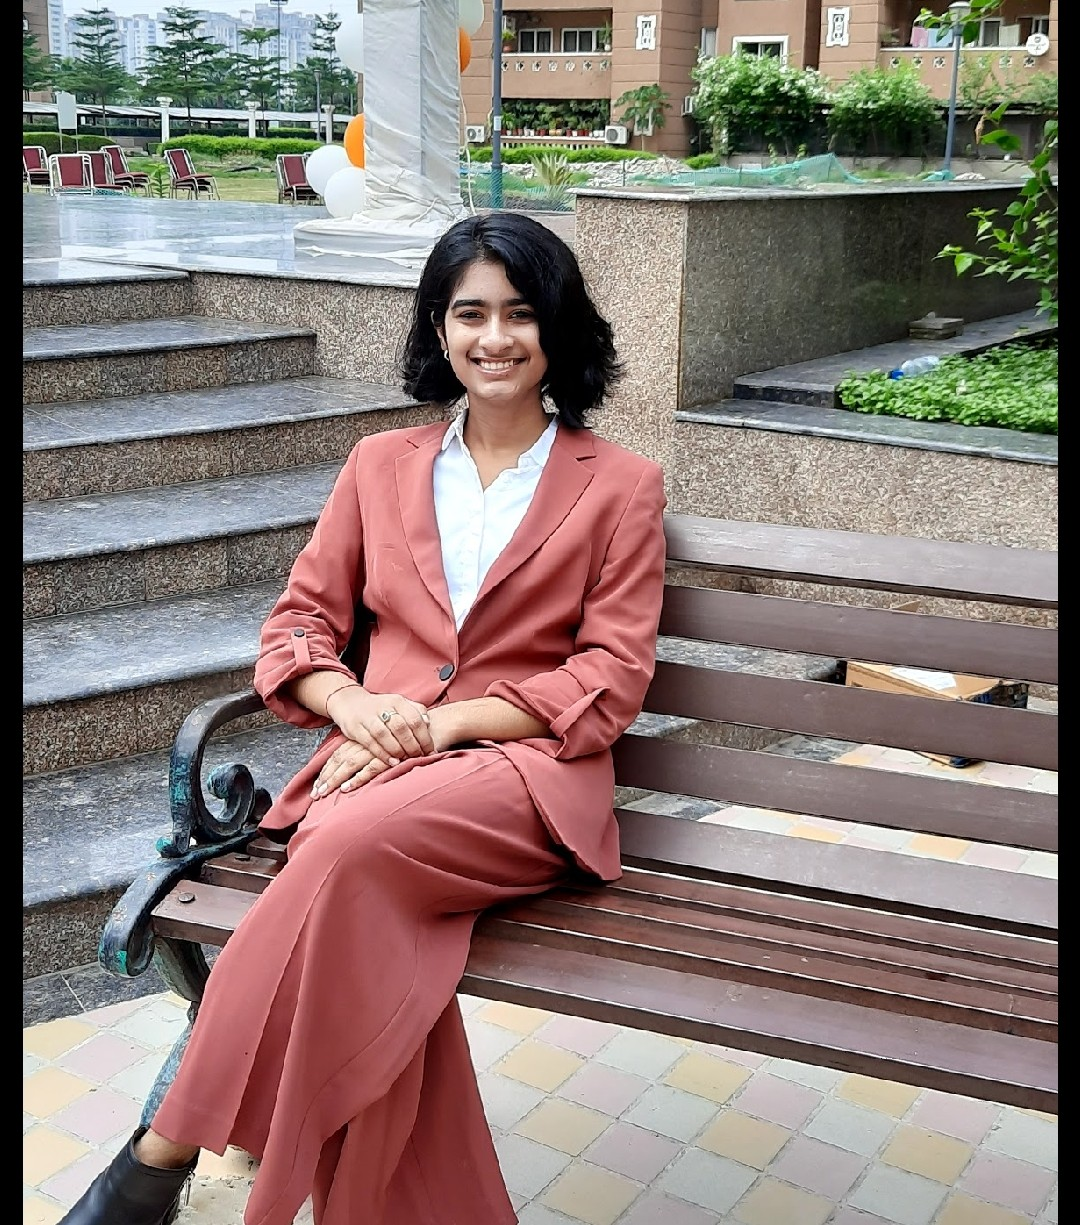
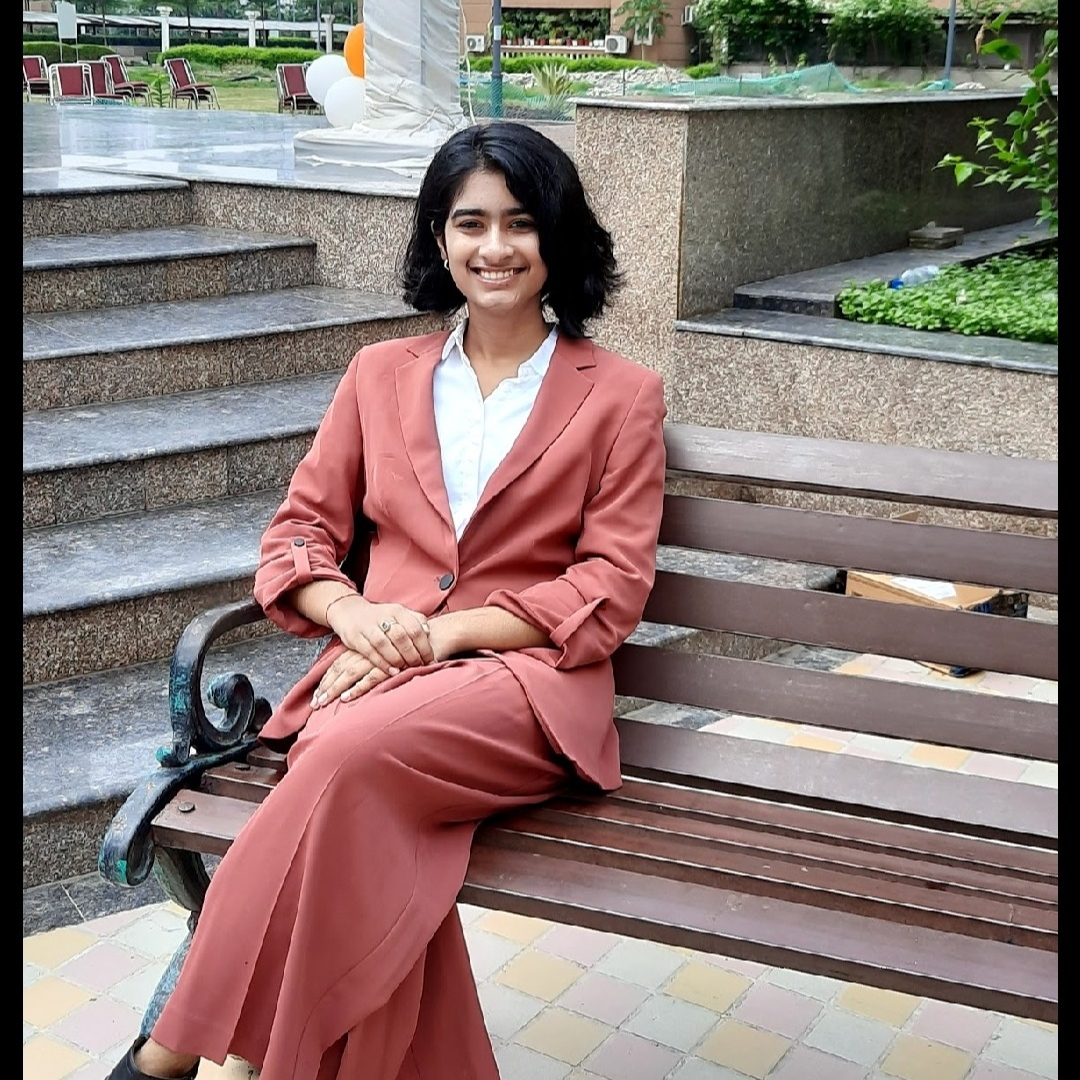
squareimg

diff --git a/src/Components/AboutUs/card.css b/src/Components/AboutUs/card.css
@@ -16,7 +16,7 @@
 }
 
 .img {
-    height:250px;
+    height:auto;
     width:250px;
     border-radius: 50%;
     transition: all 0.25s linear;
@@ -26,7 +26,7 @@
 {
     .img{
         margin-left: 0%;
-        height:150px;
+        height:auto;
         width:150px;
     }
 }

diff --git a/src/Components/AboutUs/teamdata.js b/src/Components/AboutUs/teamdata.js
@@ -1,4 +1,4 @@
-import arjun from './Photos/Arjun.jpeg';
+import arjun from './Photos/Arjun.jpg';
 import rahul from './Photos/Rahul.jpg';
 import kanav from './Photos/Kanav.jpg';
 import ananya from './Photos/Ananya.jpg';
